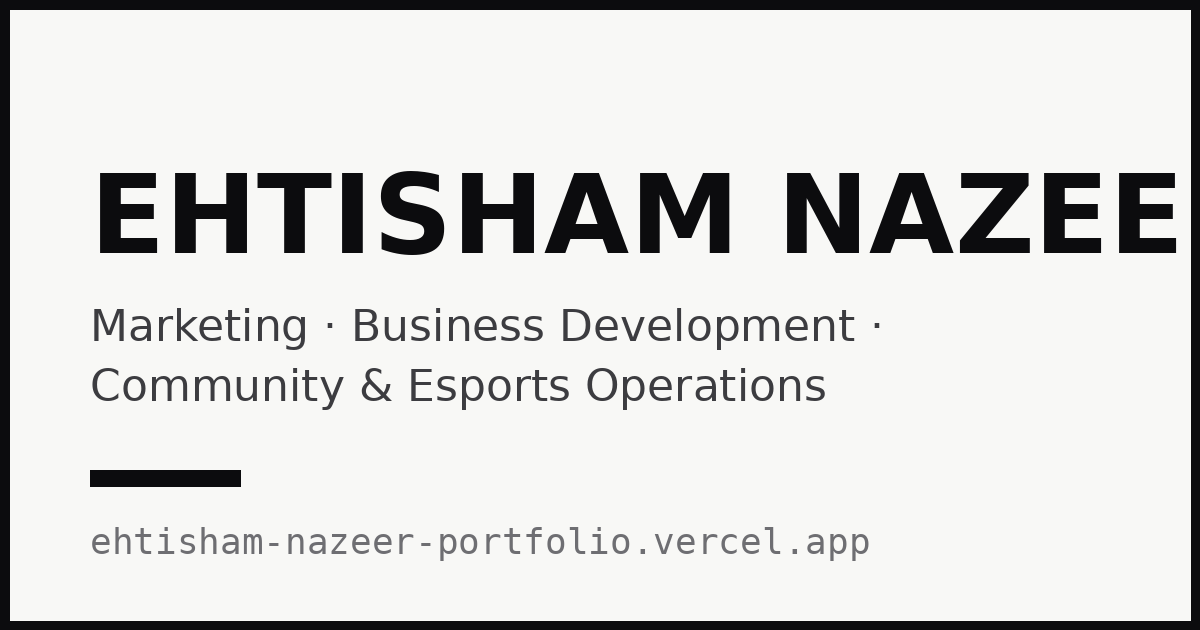
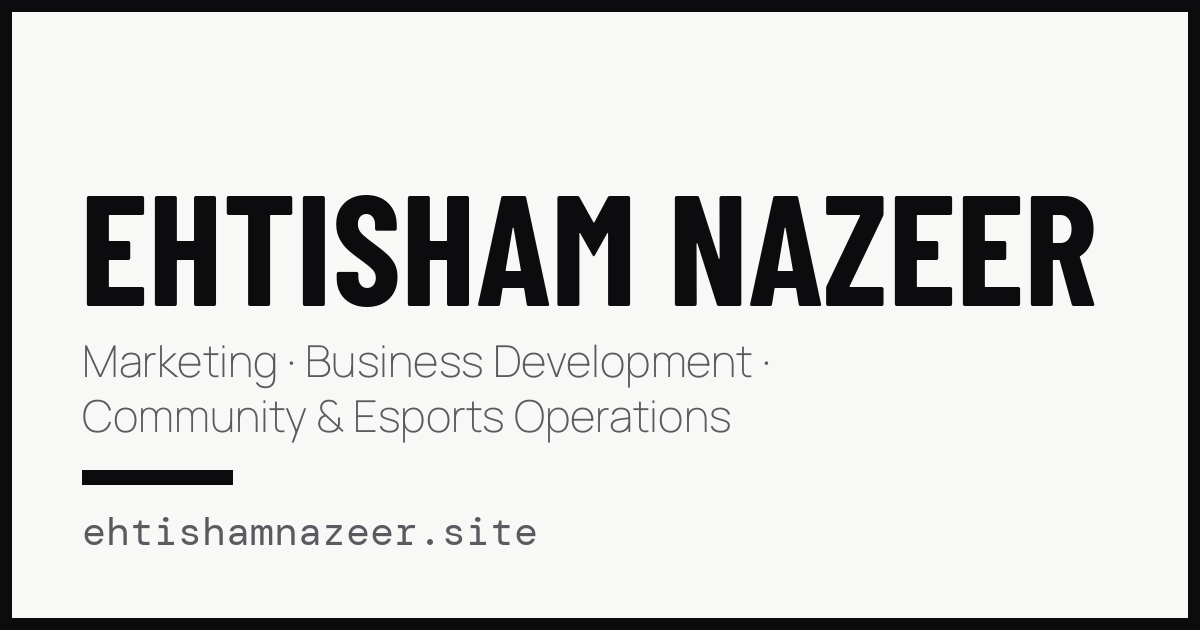
New OG share image: full name + ehtishamnazeer.site (was baked with cut-off name + vercel.app URL); cache-busted ?v=2

Changed region(s): [[0.0, 0.0, 1.0, 0.9952], [0.0617, 0.8143, 0.74, 0.9048], [0.0617, 0.754, 0.2158, 0.7841]]

diff --git a/index.html b/index.html
@@ -12,12 +12,12 @@
 <meta property="og:title" content="Ehtisham Nazeer — Marketing, Business Development, Community & Esports Operations">
 <meta property="og:description" content="Ehtisham Nazeer — Marketing, Business Development, Community & Esports Operations professional from Pakistan. 5+ years, 12 brands, 150+ events. Explore experience, projects and contact.">
 <meta property="og:url" content="https://ehtishamnazeer.site/">
-<meta property="og:image" content="https://raw.githubusercontent.com/prettylilac02-spec/ehtisham-nazeer-portfolio/main/og-image.png">
+<meta property="og:image" content="https://raw.githubusercontent.com/prettylilac02-spec/ehtisham-nazeer-portfolio/main/og-image.png?v=2">
 <meta property="og:image:alt" content="Ehtisham Nazeer — portfolio">
 <meta name="twitter:card" content="summary_large_image">
 <meta name="twitter:title" content="Ehtisham Nazeer — Marketing, Business Development, Community & Esports Operations">
 <meta name="twitter:description" content="Ehtisham Nazeer — Marketing, Business Development, Community & Esports Operations professional from Pakistan. 5+ years, 12 brands, 150+ events. Explore experience, projects and contact.">
-<meta name="twitter:image" content="https://raw.githubusercontent.com/prettylilac02-spec/ehtisham-nazeer-portfolio/main/og-image.png">
+<meta name="twitter:image" content="https://raw.githubusercontent.com/prettylilac02-spec/ehtisham-nazeer-portfolio/main/og-image.png?v=2">
 <meta name="theme-color" content="#fbfaf7">
 <title>Ehtisham Nazeer — Marketing, Business Development, Community & Esports Operations</title>
 <link rel="preconnect" href="https://fonts.googleapis.com">

diff --git a/experience.html b/experience.html
@@ -12,12 +12,12 @@
 <meta property="og:title" content="Experience — Ehtisham Nazeer">
 <meta property="og:description" content="Ehtisham Nazeer — professional experience in marketing, business development, community management and esports operations across Zong, Raptr Wallet, Telenor and Garena Free Fire.">
 <meta property="og:url" content="https://ehtishamnazeer.site/experience.html">
-<meta property="og:image" content="https://raw.githubusercontent.com/prettylilac02-spec/ehtisham-nazeer-portfolio/main/og-image.png">
+<meta property="og:image" content="https://raw.githubusercontent.com/prettylilac02-spec/ehtisham-nazeer-portfolio/main/og-image.png?v=2">
 <meta property="og:image:alt" content="Ehtisham Nazeer — portfolio">
 <meta name="twitter:card" content="summary_large_image">
 <meta name="twitter:title" content="Experience — Ehtisham Nazeer">
 <meta name="twitter:description" content="Ehtisham Nazeer — professional experience in marketing, business development, community management and esports operations across Zong, Raptr Wallet, Telenor and Garena Free Fire.">
-<meta name="twitter:image" content="https://raw.githubusercontent.com/prettylilac02-spec/ehtisham-nazeer-portfolio/main/og-image.png">
+<meta name="twitter:image" content="https://raw.githubusercontent.com/prettylilac02-spec/ehtisham-nazeer-portfolio/main/og-image.png?v=2">
 <meta name="theme-color" content="#fbfaf7">
 <title>Experience — Ehtisham Nazeer</title>
 <link rel="preconnect" href="https://fonts.googleapis.com">

diff --git a/contact.html b/contact.html
@@ -12,12 +12,12 @@
 <meta property="og:title" content="Contact — Ehtisham Nazeer">
 <meta property="og:description" content="Contact Ehtisham Nazeer for marketing, business development, community and esports opportunities — email, WhatsApp or LinkedIn. Usually replies within a day.">
 <meta property="og:url" content="https://ehtishamnazeer.site/contact.html">
-<meta property="og:image" content="https://raw.githubusercontent.com/prettylilac02-spec/ehtisham-nazeer-portfolio/main/og-image.png">
+<meta property="og:image" content="https://raw.githubusercontent.com/prettylilac02-spec/ehtisham-nazeer-portfolio/main/og-image.png?v=2">
 <meta property="og:image:alt" content="Ehtisham Nazeer — portfolio">
 <meta name="twitter:card" content="summary_large_image">
 <meta name="twitter:title" content="Contact — Ehtisham Nazeer">
 <meta name="twitter:description" content="Contact Ehtisham Nazeer for marketing, business development, community and esports opportunities — email, WhatsApp or LinkedIn. Usually replies within a day.">
-<meta name="twitter:image" content="https://raw.githubusercontent.com/prettylilac02-spec/ehtisham-nazeer-portfolio/main/og-image.png">
+<meta name="twitter:image" content="https://raw.githubusercontent.com/prettylilac02-spec/ehtisham-nazeer-portfolio/main/og-image.png?v=2">
 <meta name="theme-color" content="#fbfaf7">
 <title>Contact — Ehtisham Nazeer</title>
 <link rel="preconnect" href="https://fonts.googleapis.com">

diff --git a/projects.html b/projects.html
@@ -12,12 +12,12 @@
 <meta property="og:title" content="Projects — Ehtisham Nazeer">
 <meta property="og:description" content="Selected work by Ehtisham Nazeer — esports campaigns, leagues and community events across Free Fire, Tekken 8, Zong Engage, Raptr Wallet, HBL and Telenor.">
 <meta property="og:url" content="https://ehtishamnazeer.site/projects.html">
-<meta property="og:image" content="https://raw.githubusercontent.com/prettylilac02-spec/ehtisham-nazeer-portfolio/main/og-image.png">
+<meta property="og:image" content="https://raw.githubusercontent.com/prettylilac02-spec/ehtisham-nazeer-portfolio/main/og-image.png?v=2">
 <meta property="og:image:alt" content="Ehtisham Nazeer — portfolio">
 <meta name="twitter:card" content="summary_large_image">
 <meta name="twitter:title" content="Projects — Ehtisham Nazeer">
 <meta name="twitter:description" content="Selected work by Ehtisham Nazeer — esports campaigns, leagues and community events across Free Fire, Tekken 8, Zong Engage, Raptr Wallet, HBL and Telenor.">
-<meta name="twitter:image" content="https://raw.githubusercontent.com/prettylilac02-spec/ehtisham-nazeer-portfolio/main/og-image.png">
+<meta name="twitter:image" content="https://raw.githubusercontent.com/prettylilac02-spec/ehtisham-nazeer-portfolio/main/og-image.png?v=2">
 <meta name="theme-color" content="#fbfaf7">
 <title>Projects — Ehtisham Nazeer</title>
 <link rel="preconnect" href="https://fonts.googleapis.com">
